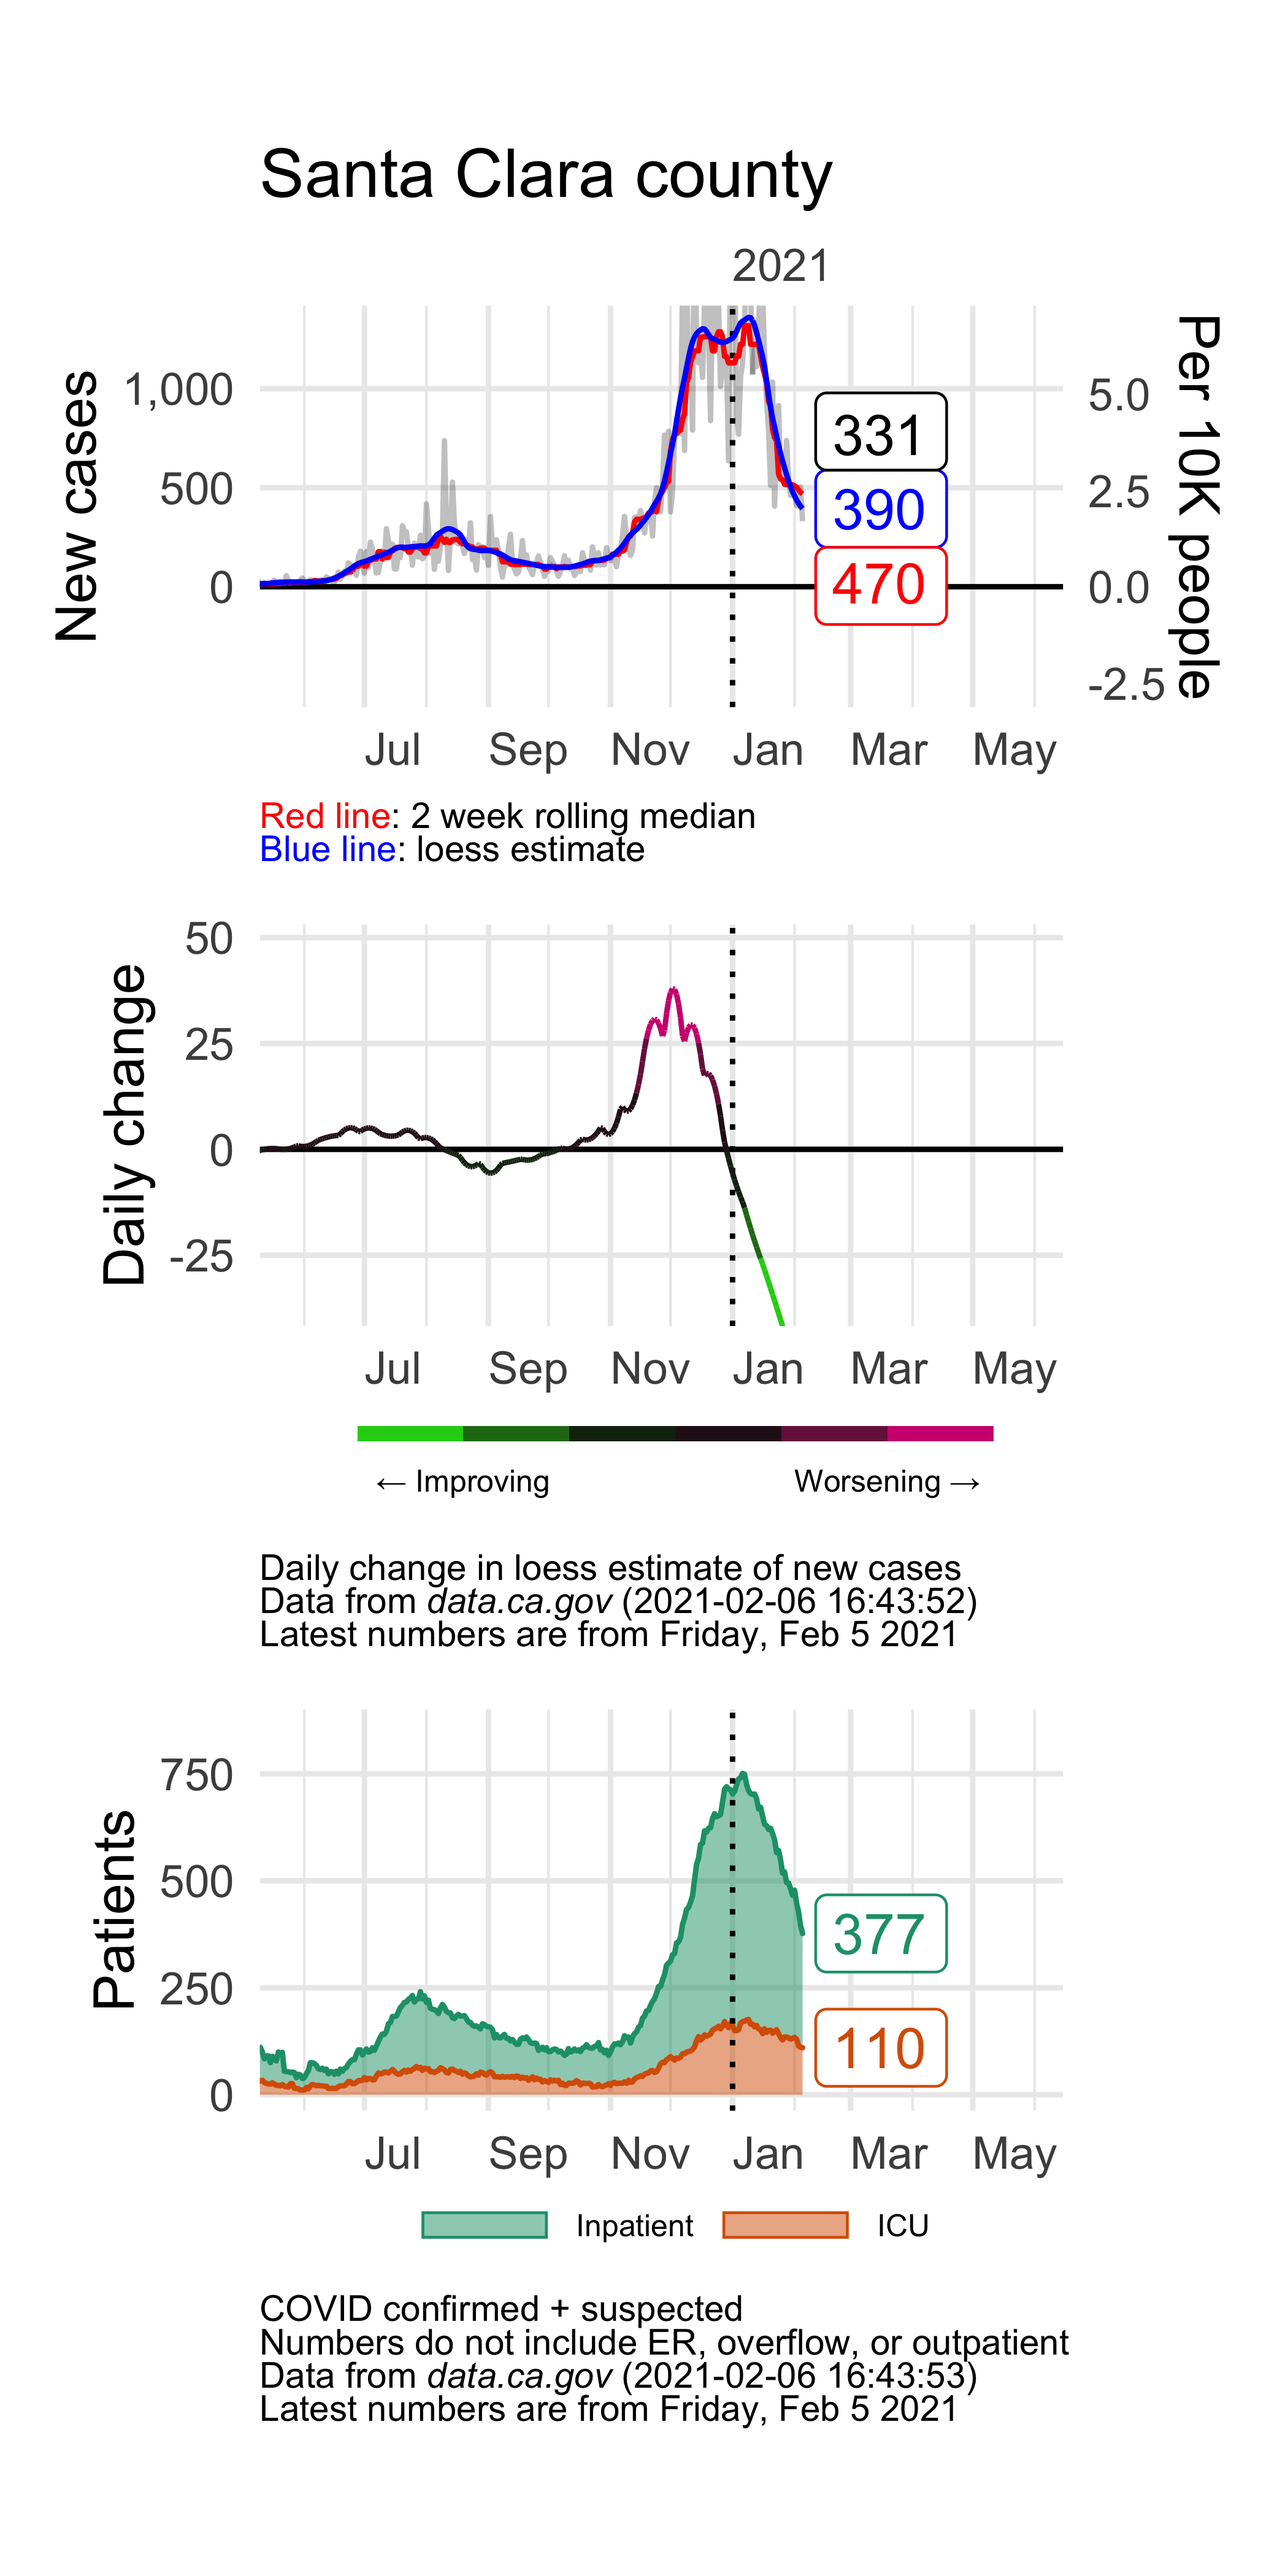
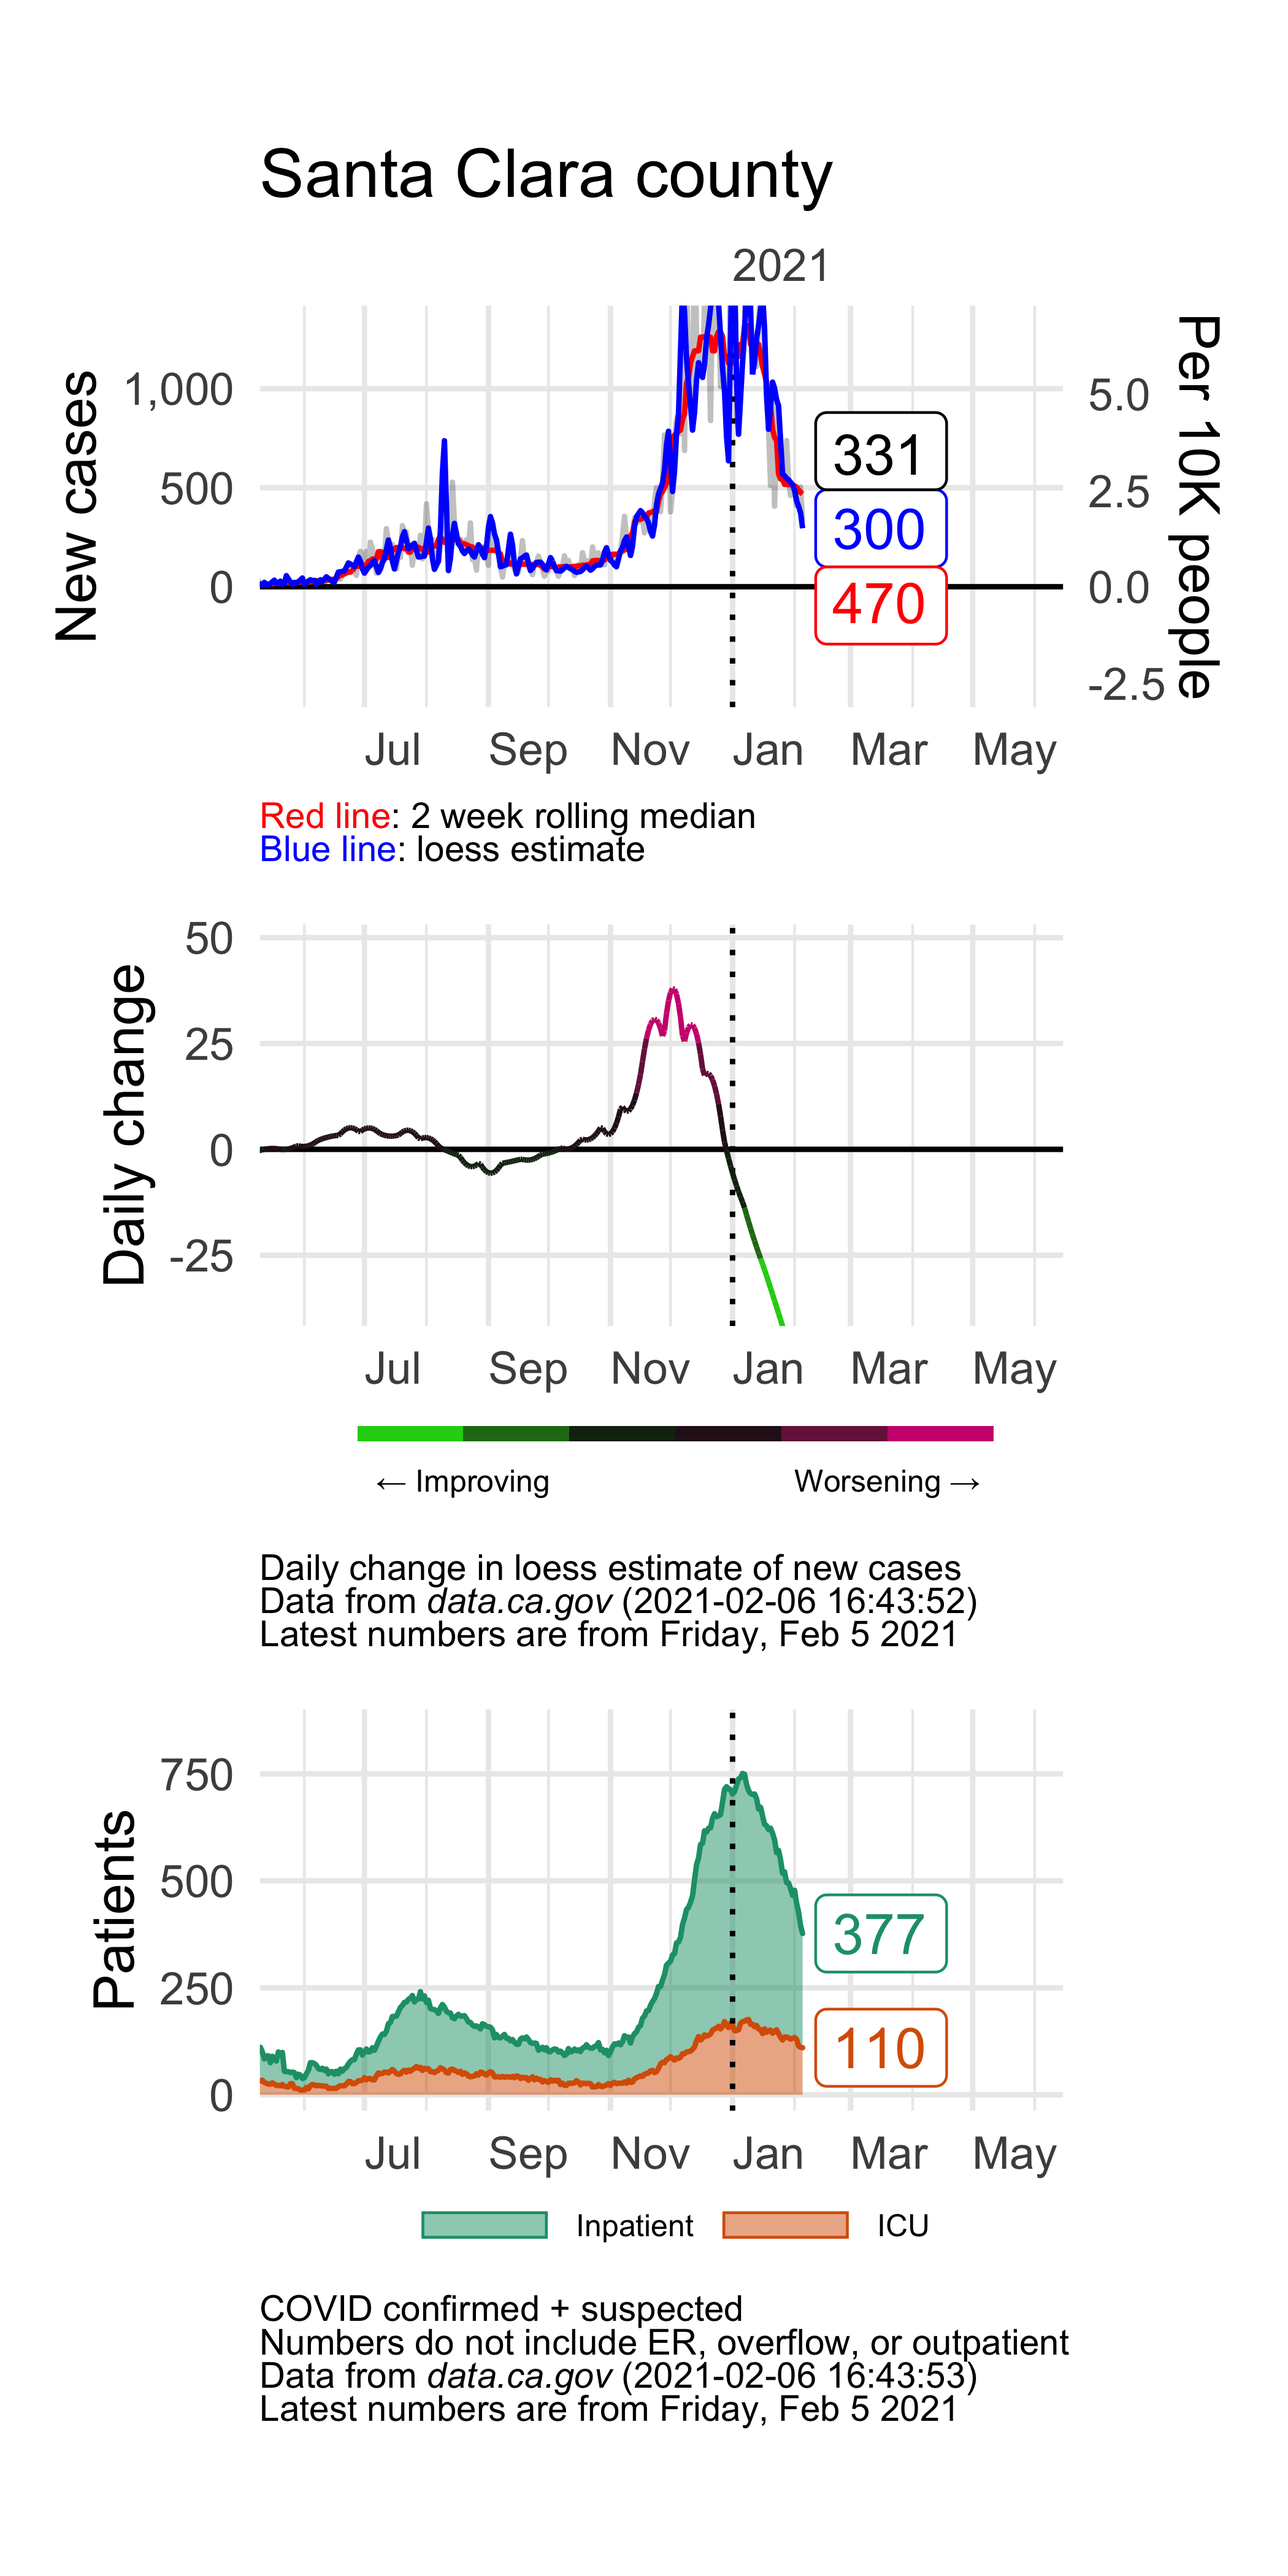
Smooth near 0

Changed region(s): [[0.4643, 0.0936, 0.7429, 0.2495], [0.2786, 0.156, 0.4024, 0.2183]]

diff --git a/content/_index.html b/content/_index.html
@@ -21,11 +21,71 @@ output:
 <h2>Los Angeles</h2>
 <p>For the most recent information, I recommend reading the
 <a href="http://publichealth.lacounty.gov/media/coronavirus/#news">LA county public health press releases</a>.</p>
+<pre><code>## Warning: Problem with `mutate()` input `count_new_loess`.
+## ℹ span too small.   fewer data values than degrees of freedom.
+## ℹ Input `count_new_loess` is `predict_loess(date, count_new, span = 0.01)`.</code></pre>
+<pre><code>## Warning in simpleLoess(y, x, w, span, degree = degree, parametric =
+## parametric, : span too small. fewer data values than degrees of freedom.</code></pre>
+<pre><code>## Warning: Problem with `mutate()` input `count_new_loess`.
+## ℹ pseudoinverse used at 18337
+## ℹ Input `count_new_loess` is `predict_loess(date, count_new, span = 0.01)`.</code></pre>
+<pre><code>## Warning in simpleLoess(y, x, w, span, degree = degree, parametric =
+## parametric, : pseudoinverse used at 18337</code></pre>
+<pre><code>## Warning: Problem with `mutate()` input `count_new_loess`.
+## ℹ neighborhood radius 3.62
+## ℹ Input `count_new_loess` is `predict_loess(date, count_new, span = 0.01)`.</code></pre>
+<pre><code>## Warning in simpleLoess(y, x, w, span, degree = degree, parametric =
+## parametric, : neighborhood radius 3.62</code></pre>
+<pre><code>## Warning: Problem with `mutate()` input `count_new_loess`.
+## ℹ reciprocal condition number  0
+## ℹ Input `count_new_loess` is `predict_loess(date, count_new, span = 0.01)`.</code></pre>
+<pre><code>## Warning in simpleLoess(y, x, w, span, degree = degree, parametric =
+## parametric, : reciprocal condition number 0</code></pre>
+<pre><code>## Warning: Problem with `mutate()` input `count_new_loess`.
+## ℹ There are other near singularities as well. 13.104
+## ℹ Input `count_new_loess` is `predict_loess(date, count_new, span = 0.01)`.</code></pre>
+<pre><code>## Warning in simpleLoess(y, x, w, span, degree = degree, parametric =
+## parametric, : There are other near singularities as well. 13.104</code></pre>
+<pre><code>## Warning: Problem with `mutate()` input `count_new_loess`.
+## ℹ k-d tree limited by memory. ncmax= 325
+## ℹ Input `count_new_loess` is `predict_loess(date, count_new, span = 0.01)`.</code></pre>
+<pre><code>## Warning in simpleLoess(y, x, w, span, degree = degree, parametric =
+## parametric, : k-d tree limited by memory. ncmax= 325</code></pre>
 <p><img src="/_index_files/figure-html/covid-los-angeles-1.png" width="350px" style="display: block; margin: auto;" /></p>
 </div>
 <div id="santa-clara" class="section level2">
 <h2>Santa Clara</h2>
 <p>For the most recent information, I recommend reading the
 <a href="https://www.sccgov.org/sites/covid19/Pages/archives.aspx">Santa Clara county public health press releases</a>.</p>
+<pre><code>## Warning: Problem with `mutate()` input `count_new_loess`.
+## ℹ span too small.   fewer data values than degrees of freedom.
+## ℹ Input `count_new_loess` is `predict_loess(date, count_new, span = 0.01)`.</code></pre>
+<pre><code>## Warning in simpleLoess(y, x, w, span, degree = degree, parametric =
+## parametric, : span too small. fewer data values than degrees of freedom.</code></pre>
+<pre><code>## Warning: Problem with `mutate()` input `count_new_loess`.
+## ℹ pseudoinverse used at 18337
+## ℹ Input `count_new_loess` is `predict_loess(date, count_new, span = 0.01)`.</code></pre>
+<pre><code>## Warning in simpleLoess(y, x, w, span, degree = degree, parametric =
+## parametric, : pseudoinverse used at 18337</code></pre>
+<pre><code>## Warning: Problem with `mutate()` input `count_new_loess`.
+## ℹ neighborhood radius 3.62
+## ℹ Input `count_new_loess` is `predict_loess(date, count_new, span = 0.01)`.</code></pre>
+<pre><code>## Warning in simpleLoess(y, x, w, span, degree = degree, parametric =
+## parametric, : neighborhood radius 3.62</code></pre>
+<pre><code>## Warning: Problem with `mutate()` input `count_new_loess`.
+## ℹ reciprocal condition number  0
+## ℹ Input `count_new_loess` is `predict_loess(date, count_new, span = 0.01)`.</code></pre>
+<pre><code>## Warning in simpleLoess(y, x, w, span, degree = degree, parametric =
+## parametric, : reciprocal condition number 0</code></pre>
+<pre><code>## Warning: Problem with `mutate()` input `count_new_loess`.
+## ℹ There are other near singularities as well. 13.104
+## ℹ Input `count_new_loess` is `predict_loess(date, count_new, span = 0.01)`.</code></pre>
+<pre><code>## Warning in simpleLoess(y, x, w, span, degree = degree, parametric =
+## parametric, : There are other near singularities as well. 13.104</code></pre>
+<pre><code>## Warning: Problem with `mutate()` input `count_new_loess`.
+## ℹ k-d tree limited by memory. ncmax= 325
+## ℹ Input `count_new_loess` is `predict_loess(date, count_new, span = 0.01)`.</code></pre>
+<pre><code>## Warning in simpleLoess(y, x, w, span, degree = degree, parametric =
+## parametric, : k-d tree limited by memory. ncmax= 325</code></pre>
 <p><img src="/_index_files/figure-html/covid-santa-clara-1.png" width="350px" style="display: block; margin: auto;" /></p>
 </div>
